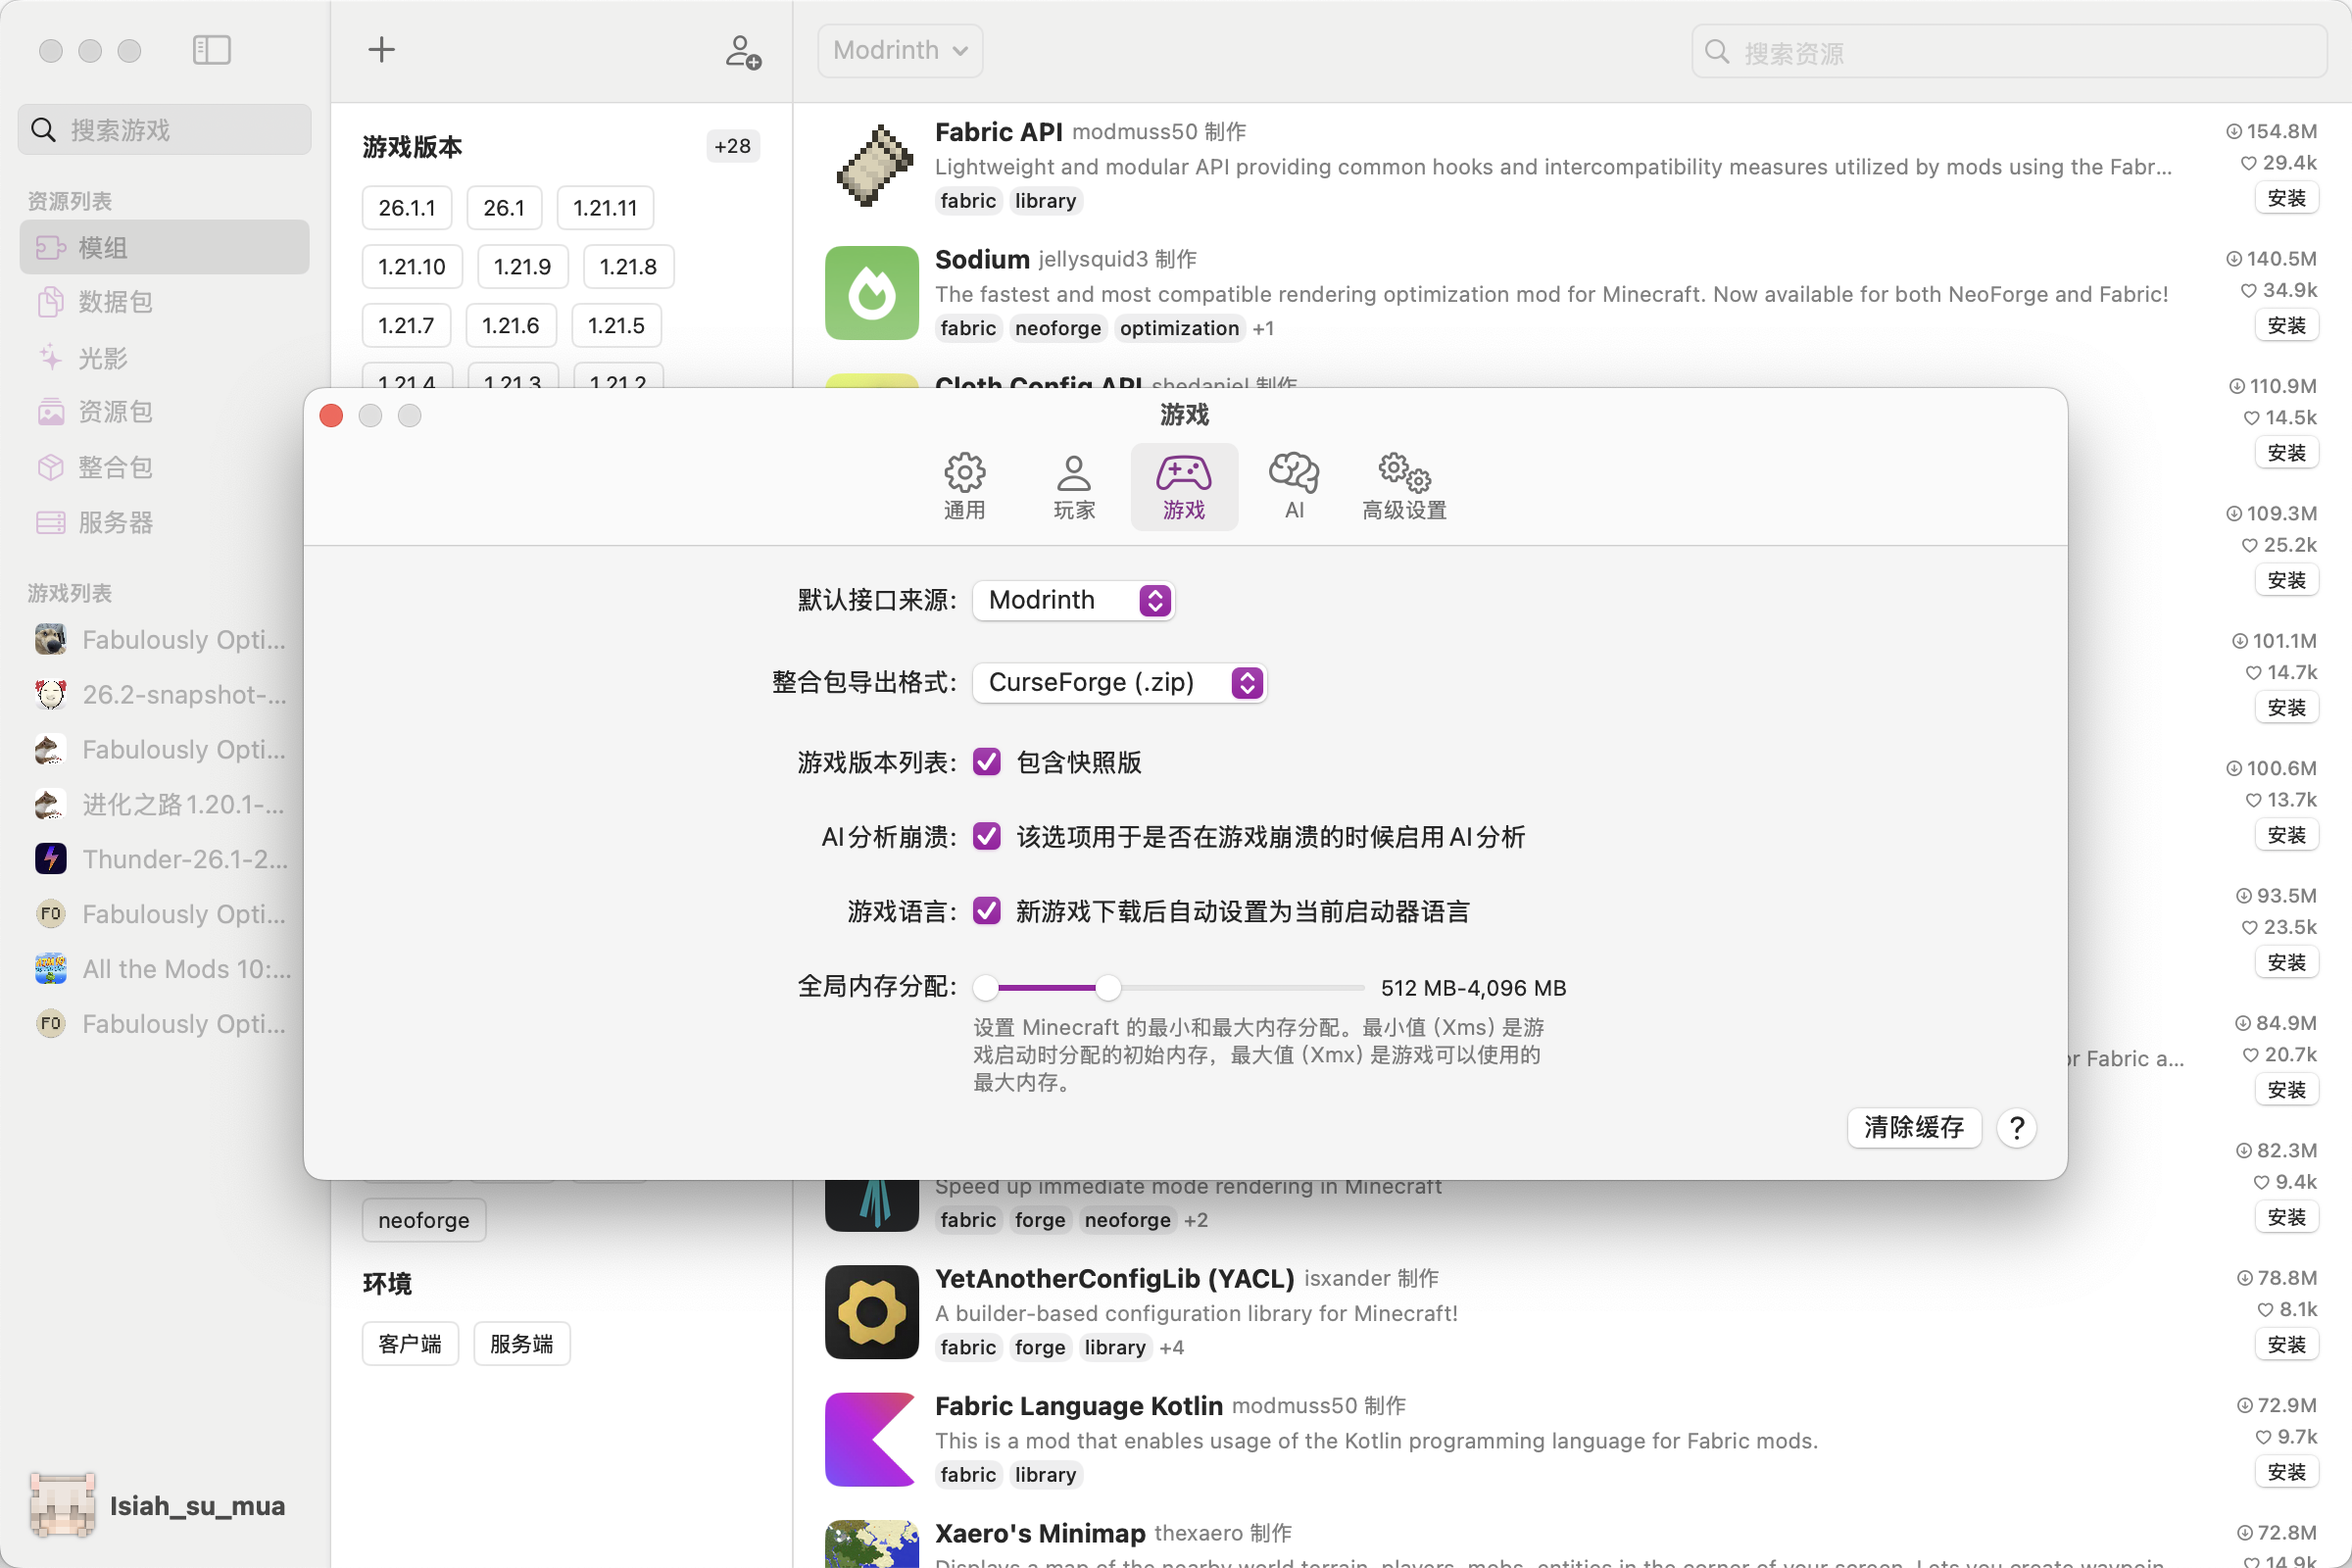
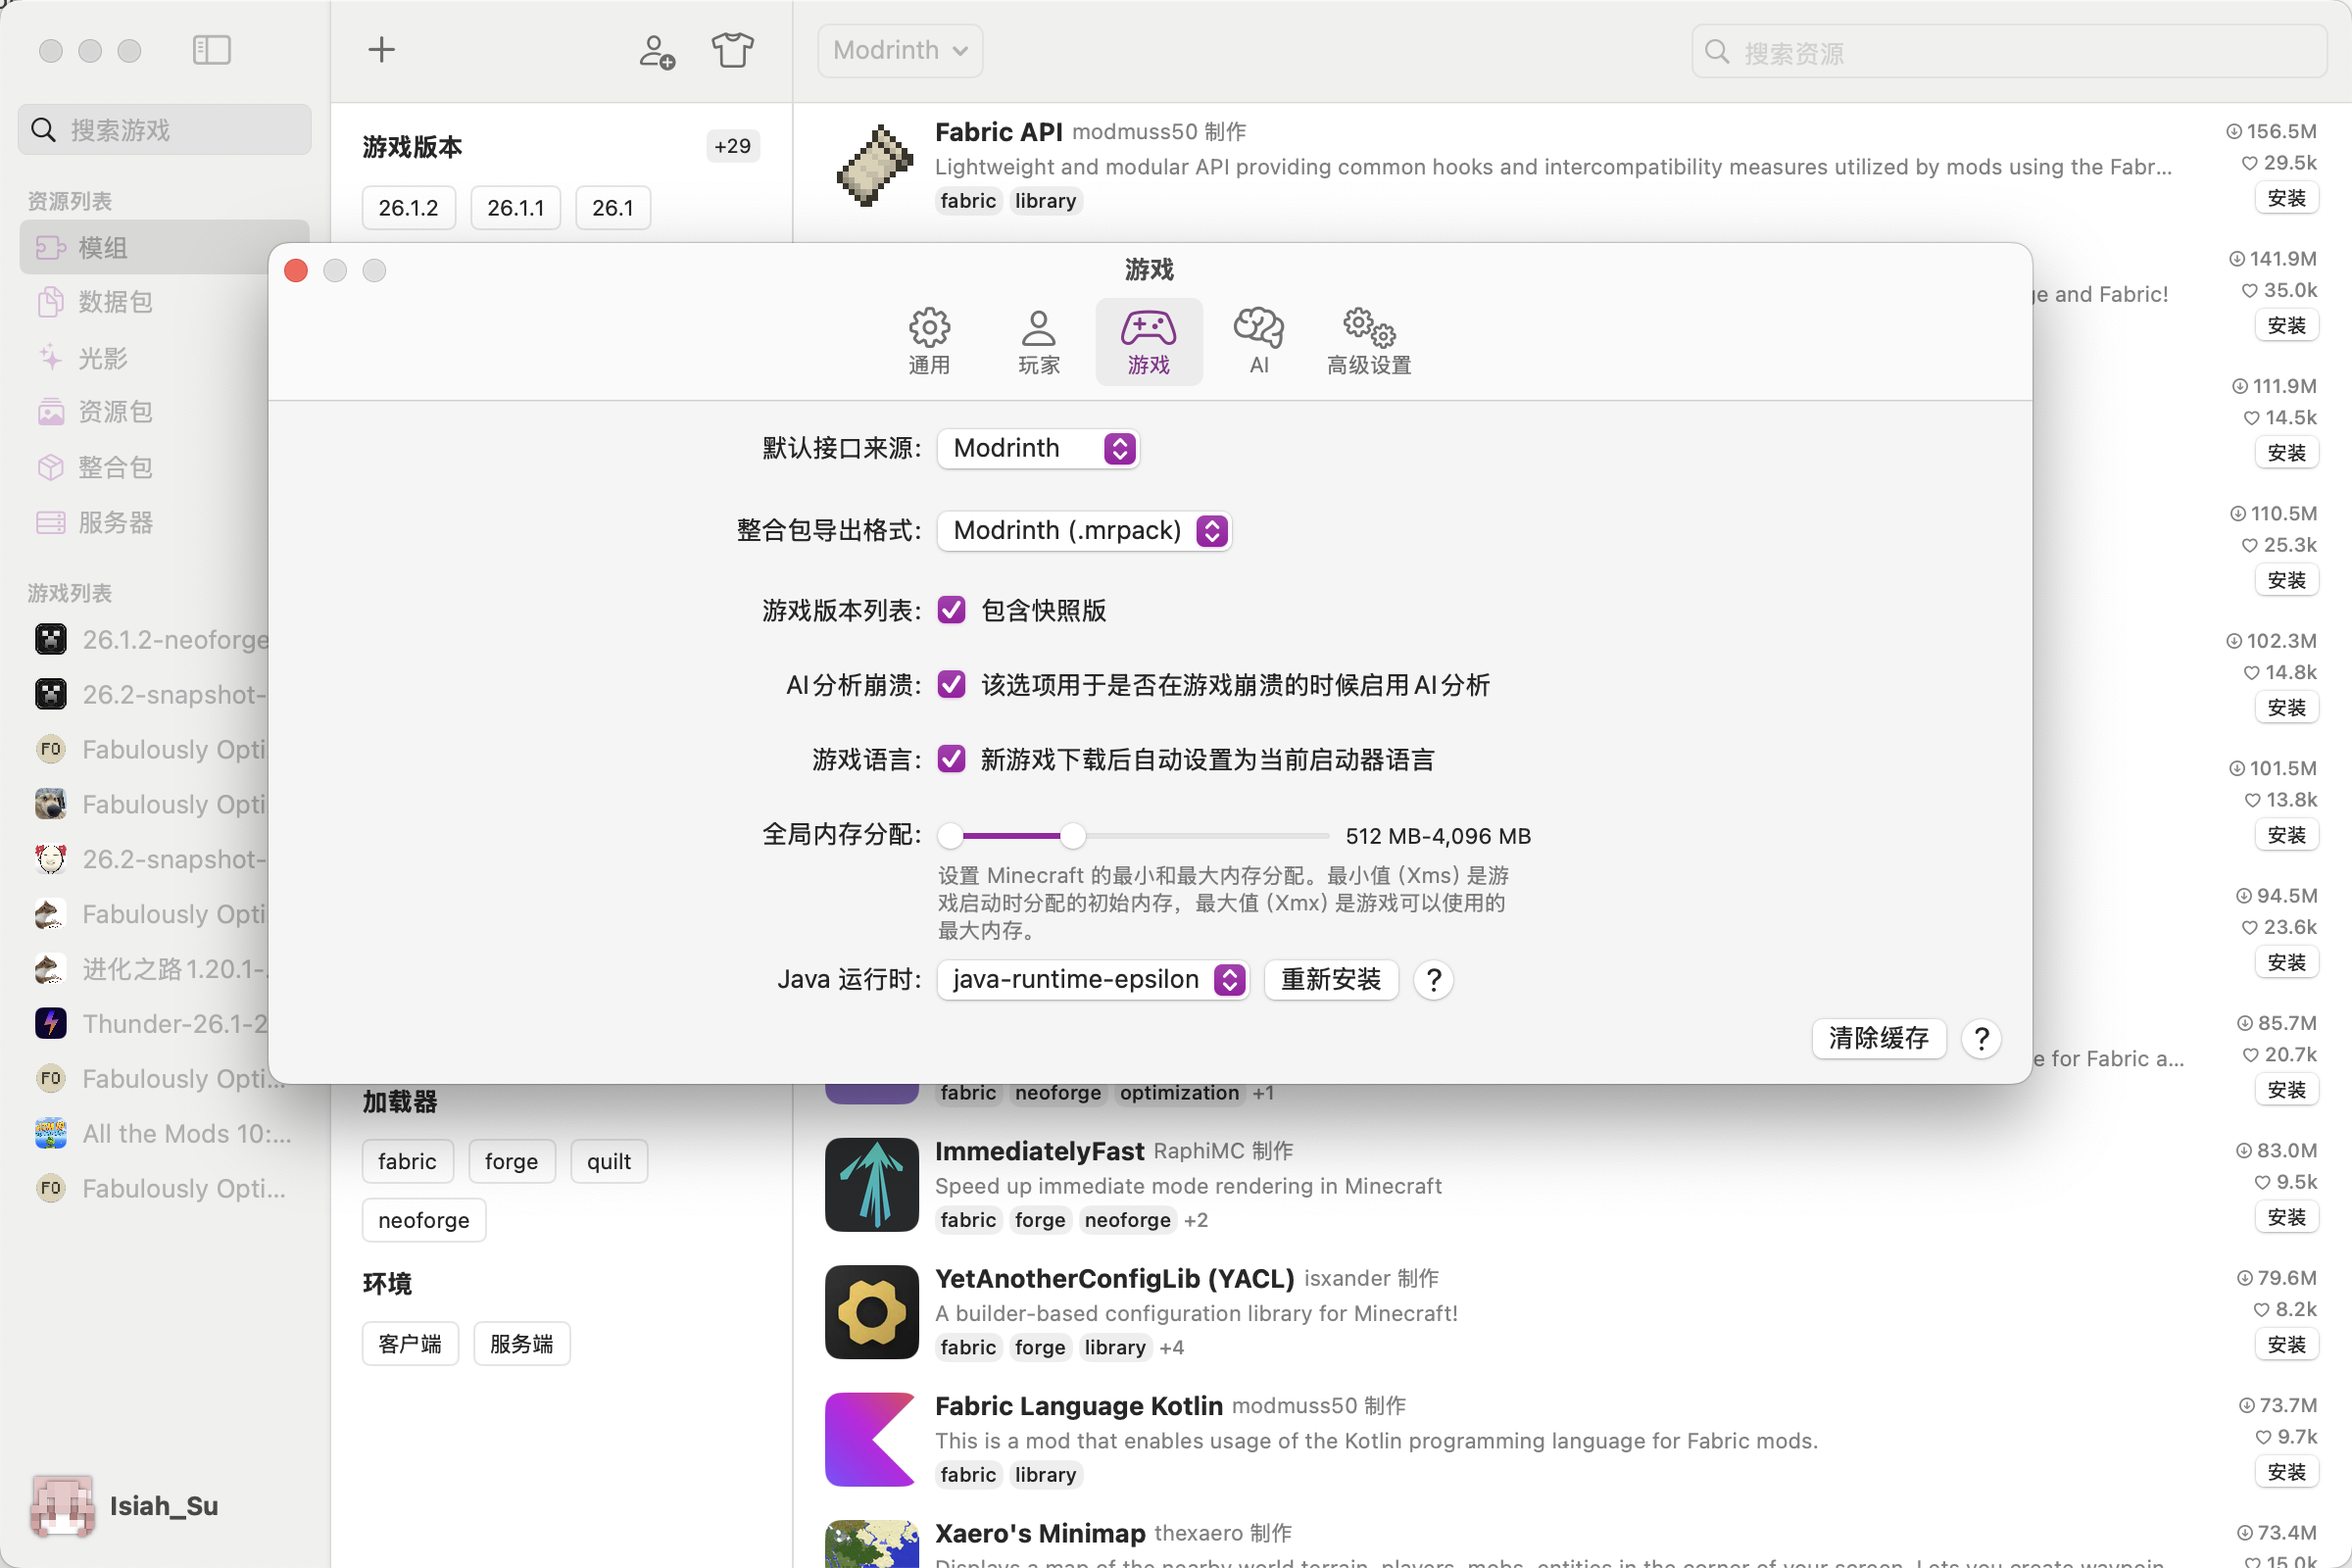
feat: 新增java重新安装的说明
feat: 新增java重新安装的说明

diff --git a/help/SwiftCraftLauncher.help/Contents/Resources/en.lproj/settings.html b/help/SwiftCraftLauncher.help/Contents/Resources/en.lproj/settings.html
@@ -3,7 +3,7 @@
     <meta charset="UTF-8">
     <title>Launcher Settings</title>
     <meta name="description" content="Configure Swift Craft Launcher settings, including general settings, game settings, advanced game settings, and AI settings">
-    <meta name="keywords" content="settings, configuration, language, theme, layout, working directory, downloads, GitHub proxy, player, offline login, Yggdrasil, authlib-injector, Modrinth, CurseForge, snapshot versions, memory, Java, JVM, environment variables, AI, Keychain, Ollama, OpenAI, garbage collector">
+    <meta name="keywords" content="settings, configuration, language, theme, layout, working directory, downloads, GitHub proxy, player, offline login, Yggdrasil, authlib-injector, Modrinth, CurseForge, snapshot versions, memory, Java, Java runtime, reinstall, JVM, environment variables, AI, Keychain, Ollama, OpenAI, garbage collector">
     <meta content="light dark" name="color-scheme">
     <link media="all" href="https://suhang12332.github.io/Swift-Craft-Launcher-Assets/help/SwiftCraftLauncher.help/Contents/Resources/css/app.css" type="text/css" rel="stylesheet">
 </head>
@@ -137,6 +137,18 @@
         <h2 aria-controls="aria-settings-default-memory" class="Name">Default Memory Allocation</h2>
         <div class="TaskBody" role="region" aria-hidden="false" id="aria-settings-default-memory">
             <p>Set the global default memory range (Xms-Xmx).</p>
+        </div>
+    </div>
+
+    <div id="settings-java-runtime-reinstall" class="Task">
+        <h2 aria-controls="aria-settings-java-runtime-reinstall" class="Name">Java Runtimes and Reinstall</h2>
+        <div class="TaskBody" role="region" aria-hidden="false" id="aria-settings-java-runtime-reinstall">
+            <p>When the launcher detects usable Java runtime components under your working directory, a <strong>Java runtimes</strong> section appears in Game Settings. Use the pop-up menu to choose which component to work with (for example, the runtime required by a specific Minecraft version line).</p>
+            <p>The <strong>Help</strong> button next to it shows the selected runtime’s executable path and a summary of the <code class="CodeLine">java --version</code> output.</p>
+            <p><strong>Reinstall:</strong> For the selected component, the launcher <strong>deletes the entire folder</strong> for that component under the runtimes directory, then <strong>downloads and installs it again</strong>. A download progress window opens during the process; after it finishes and the window closes, the list refreshes automatically. Reinstall is disabled while a download is already in progress.</p>
+            <div class="Alert">
+                <p class="Note"><em>Note:</em> When the launcher first downloads a missing component automatically, it uses the same approach—clear that component’s directory first—so the install is consistent.</p>
+            </div>
         </div>
     </div>
 

diff --git a/help/SwiftCraftLauncher.help/Contents/Resources/zh-Hant.lproj/settings.html b/help/SwiftCraftLauncher.help/Contents/Resources/zh-Hant.lproj/settings.html
@@ -3,7 +3,7 @@
     <meta charset="UTF-8">
     <title>啟動器設置</title>
     <meta name="description" content="配置 Swift Craft Launcher 設置，包括通用設置、遊戲設置、遊戲高級設置和AI設置">
-    <meta name="keywords" content="設置, 配置, 語言, 主題, 介面佈局, 工作目錄, 下載, GitHub 代理, 玩家, 離線登入, Yggdrasil, authlib-injector, Modrinth, CurseForge, 快照版, 記憶體, Java, JVM, 環境變數, AI, Keychain, Ollama, OpenAI, 垃圾回收器">
+    <meta name="keywords" content="設置, 配置, 語言, 主題, 介面佈局, 工作目錄, 下載, GitHub 代理, 玩家, 離線登入, Yggdrasil, authlib-injector, Modrinth, CurseForge, 快照版, 記憶體, Java, Java 運行時, 重新安裝, JVM, 環境變數, AI, Keychain, Ollama, OpenAI, 垃圾回收器">
     <meta content="light dark" name="color-scheme">
     <link media="all" href="https://suhang12332.github.io/Swift-Craft-Launcher-Assets/help/SwiftCraftLauncher.help/Contents/Resources/css/app.css" type="text/css" rel="stylesheet">
 </head>
@@ -137,6 +137,18 @@
         <h2 aria-controls="aria-settings-default-memory" class="Name">預設記憶體分配</h2>
         <div class="TaskBody" role="region" aria-hidden="false" id="aria-settings-default-memory">
             <p>設置全域預設記憶體範圍（Xms-Xmx）。</p>
+        </div>
+    </div>
+
+    <div id="settings-java-runtime-reinstall" class="Task">
+        <h2 aria-controls="aria-settings-java-runtime-reinstall" class="Name">Java 運行時與重新安裝</h2>
+        <div class="TaskBody" role="region" aria-hidden="false" id="aria-settings-java-runtime-reinstall">
+            <p>當啟動器已在工作目錄中偵測到可用的 Java 運行時元件時，會在遊戲設置中顯示 <strong>Java 運行時</strong>區域。您可以在選單中選擇要操作的元件（例如不同版本線路所需的運行時）。</p>
+            <p>旁側的 <strong>輔助說明按鈕</strong>可檢視目前選中運行時的可執行檔路徑以及 <code class="CodeLine">java --version</code> 輸出摘要。</p>
+            <p><strong>重新安裝：</strong>針對目前選中的元件，啟動器會<strong>先刪除</strong>該元件在運行時目錄下對應的整個資料夾，再<strong>重新下載並安裝</strong>。過程中會開啟下載進度視窗；完成後關閉視窗，清單會自動重新整理。下載進行中時無法再次點選重新安裝。</p>
+            <div class="Alert">
+                <p class="Note"><em>【注】</em>首次缺少某元件而由啟動器自動下載時，也會採用「先清空該元件目錄再安裝」的同一策略，以確保安裝結果一致。</p>
+            </div>
         </div>
     </div>
 

diff --git a/help/SwiftCraftLauncher.help/Contents/Resources/zh-Hans.lproj/settings.html b/help/SwiftCraftLauncher.help/Contents/Resources/zh-Hans.lproj/settings.html
@@ -3,7 +3,7 @@
     <meta charset="UTF-8">
     <title>启动器设置</title>
     <meta name="description" content="配置 Swift Craft Launcher 设置，包括通用设置、游戏设置、游戏高级设置和AI设置">
-    <meta name="keywords" content="设置, 配置, 语言, 主题, 界面布局, 工作目录, 下载, GitHub 代理, 玩家, 离线登录, Yggdrasil, authlib-injector, Modrinth, CurseForge, 快照版, 内存, Java, JVM, 环境变量, AI, Keychain, Ollama, OpenAI, 垃圾回收器">
+    <meta name="keywords" content="设置, 配置, 语言, 主题, 界面布局, 工作目录, 下载, GitHub 代理, 玩家, 离线登录, Yggdrasil, authlib-injector, Modrinth, CurseForge, 快照版, 内存, Java, Java 运行时, 重装, JVM, 环境变量, AI, Keychain, Ollama, OpenAI, 垃圾回收器">
     <meta content="light dark" name="color-scheme">
     <link media="all" href="https://suhang12332.github.io/Swift-Craft-Launcher-Assets/help/SwiftCraftLauncher.help/Contents/Resources/css/app.css" type="text/css" rel="stylesheet">
 </head>
@@ -137,6 +137,18 @@
         <h2 aria-controls="aria-settings-default-memory" class="Name">默认内存分配</h2>
         <div class="TaskBody" role="region" aria-hidden="false" id="aria-settings-default-memory">
             <p>设置全局默认内存范围（Xms-Xmx）。</p>
+        </div>
+    </div>
+
+    <div id="settings-java-runtime-reinstall" class="Task">
+        <h2 aria-controls="aria-settings-java-runtime-reinstall" class="Name">Java 运行时与重装</h2>
+        <div class="TaskBody" role="region" aria-hidden="false" id="aria-settings-java-runtime-reinstall">
+            <p>当启动器已在工作目录中检测到可用的 Java 运行时组件时，会在游戏设置中显示 <strong>Java 运行时</strong>区域。您可以在菜单中选择具体组件（例如不同版本线路所需的运行时）。</p>
+            <p>旁侧的 <strong>帮助按钮</strong>可查看当前选中运行时的可执行文件路径以及 <code class="CodeLine">java --version</code> 输出摘要。</p>
+            <p><strong>重装：</strong>针对当前选中的组件，启动器会<strong>先删除</strong>该组件在运行时目录下对应的整个文件夹，再<strong>重新下载并安装</strong>。过程中会打开下载进度窗口；完成后关闭窗口，列表会自动刷新。下载进行中时无法再次点击重装。</p>
+            <div class="Alert">
+                <p class="Note"><em>【注】</em>首次缺少某组件而由启动器自动下载时，也会采用「先清空该组件目录再安装」的同一策略，以保证安装结果一致。</p>
+            </div>
         </div>
     </div>
 
